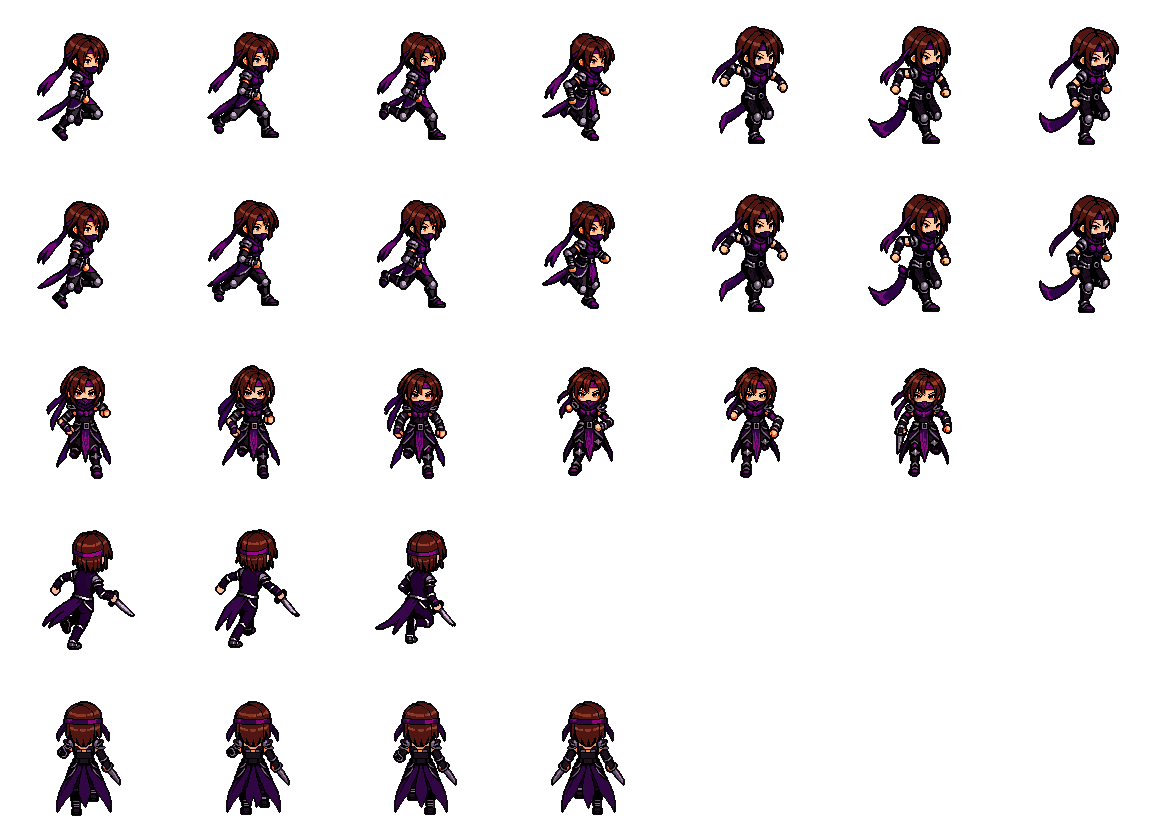
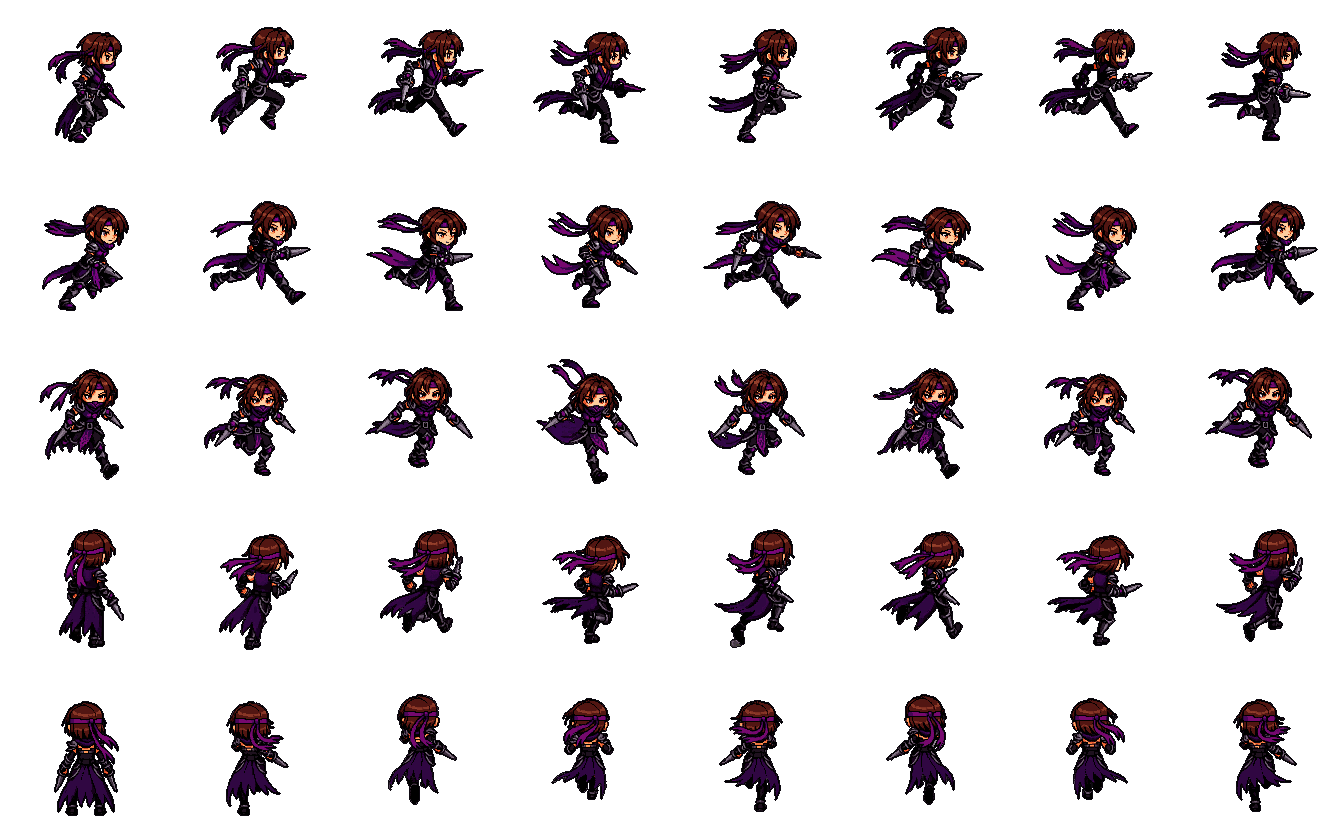
Assassin: new 5-direction run (PixelLab, 5 gen)
Claude-Session: https://claude.ai/code/session_01TXxUxQ6wjWh66ESj3NLopA

diff --git a/action.html b/action.html
@@ -3476,8 +3476,8 @@ function as2Sharp(img, k) { const c0 = img._sh || (img._sh = {}); if (c0[k]) ret
 // run in 5 directions, the twin-katar slash combo and the crit spin in 3 (side, down-diagonal, down); the left-hand directions are
 // mirrored, upward attacks use the side view. Crit (every 4th hit) plays the spin; the E whirl loops it.
 const AS3 = AS2 ? {} : null;
-if (AS3) { fetch('art/action/as3/as3.json?v=3').then(r => r.json()).then(m => { AS3.m = m; }).catch(() => {});
-  for (const k of ['still', 'run', 'attack', 'spin', 'spinfx']) { const im = new Image(); im.src = 'art/action/as3/' + k + '.png?v=3'; AS3[k] = im; } }
+if (AS3) { fetch('art/action/as3/as3.json?v=5').then(r => r.json()).then(m => { AS3.m = m; }).catch(() => {});
+  for (const k of ['still', 'run', 'attack', 'spin', 'spinfx']) { const im = new Image(); im.src = 'art/action/as3/' + k + '.png?v=5'; AS3[k] = im; } }
 const AS3MIR = {west: 'east', 'south-west': 'south-east', 'north-west': 'north-east'};
 function as3Row(name, d) {                       // [row, frames, flip] for a direction name
   const A = AS3.m.anims[name]; let flip = false, k = d;

diff --git a/tools/art/as3_build.py b/tools/art/as3_build.py
@@ -51,7 +51,7 @@ def add(name, key, dirs, pick=None, fx=False, raw=False):
         row = [put(Image.open(f).convert('RGBA') if raw else clean(Image.open(f), fx)) for f in fs]
         area = [int((np.asarray(r)[..., 3] > 0).sum()) for r in row]; med = sorted(area)[len(area) // 2]
         feet = [int((np.asarray(r)[FY - 14:FY + 2, :, 3] > 0).sum()) for r in row]; fm = sorted(feet)[len(feet) // 2]
-        if not raw: row = [r for r, ar, ft in zip(row, area, feet) if ar > med * .55 and ft > fm * .45]   # frames that were mostly effect (the X flash) or lost their legs behind a swoosh are dropped
+        if not raw and name != 'run': row = [r for r, ar, ft in zip(row, area, feet) if ar > med * .55 and ft > fm * .45]   # frames that were mostly effect (the X flash) or lost their legs behind a swoosh are dropped
         meta['anims'][name][d] = {'r': len(imgs), 'n': len(row)}; imgs.append(row)
     n = max(len(r) for r in imgs); out = Image.new('RGBA', (C * n, C * len(imgs)))
     for j, r in enumerate(imgs):
@@ -62,9 +62,10 @@ st = Image.new('RGBA', (C * 8, C)); DIRS = ['east', 'south-east', 'south', 'sout
 for i, d in enumerate(DIRS): st.alpha_composite(put(clean(Image.open(S + 'rotations/%s.png' % d), False)), (i * C, 0))
 st.save(O + 'still.png')
 # run: east has grey 'robot' arms -> the south-east run stands in for the side; north / north-east: the matching half only
-add('run', 'running', {'east': ('south-east', None), 'south-east': None, 'south': None, 'north-east': [0, 1, 2, 3], 'north': [4, 5, 6, 7]})
+# run: the PixMiniMax run (2026-11-12 "เจนท่าวิ่งเลย", 5 gen); frame 0 is the stance, 1-8 loop; the template run (grey arms) is no longer used
+R8 = list(range(1, 9)); add('run', 'agile', {'east': R8, 'south-east': R8, 'south': R8, 'north-east': R8, 'north': R8}, fx=True)
 SL = [0, 2, 3, 4, 5, 6, 7, 8, 9, 10, 11, 12, 15, 16]            # 13-14 = the X flash
-add('attack', 'a_fast', {'east': SL, 'south-east': SL, 'south': SL}, fx=True)
+add('attack', 'a_fast_twin', {'east': SL, 'south-east': SL, 'south': SL}, fx=True)
 SP = [0, 3, 4, 5, 6, 7, 8, 9, 13, 15, 16]                        # one turn, then the landing
 add('spin', 'a_critical', {'east': SP, 'south-east': SP, 'south': SP}, fx=True)
 # owner 2026-11-12 "วงไว้ทำตอนสกิล ... ทำไมจะลบเอฟเฟกต์": the spin WITH PixMiniMax's own glowing rings, untouched, for the E whirl skill

diff --git a/docs/action-game.md b/docs/action-game.md
@@ -69,6 +69,7 @@ Balance after: 1.25 of 40 (first trial key, 2026-11-08, all attacks done). The o
 | 2026-11-12 | Assassin v2 as a PixelLab character, class-1 way (owner "โอเค ตามทางเดิม"): `create_character` v3, reference = `v2/r2_ref128.png` (the redraw's front, 128x128, feet 124), no imported views | character 11dc25a4-c605-4443-8de0-32d4a7f108ef | 2 | 8 views in `v2/char_rot/` + `_preview.png` (downloaded through `/mcp/characters/<id>/download`, the backblaze links are blocked here): consistent face and outfit, katars in both hands, side and back views clean. Moves next via `animate_character` |
 | 2026-11-12 | Assassin character moves (owner "เจน", budget ~20-30): run = `animate_character` template running-8-frames, directions east / south-east / south / north-east / north (group 7161d913…); attack: the stab combo (group 07bd380c…) was cancelled while processing (owner "ไม่เอาแทง ท่าตีเอาแบบแอส RO"), then a slashing combo with an X (group e47d20a7…, also cancelled: owner "ไม่เอากากบาท"), now right sweep + left sweep only, pixminimax 16 f, east / south-east / south, group 28ece7d6… (north-east / north later) | see `v2/job_char_run.txt`, `job_char_attack.txt` | run 10 + attack 3 | done, downloaded to `v2/char_dl/` (previews `v2/as_running.png`, `as_slashing.png`, `as_spinning.png`): the template run is poor (grey 'robot' arms on east, the two batches of north / north-east do not match, katars vanish); the slash combo moves well but PixMiniMax drew big blue / purple swooshes and an X flash at the end; |
 | 2026-11-12 | Assassin crit move (owner "ท่าคริให้หมุนตัวฟัน คล้ายๆ นักธนูหมุนตัวยิง"): pixminimax 16 f, one full spin with both katars slashing round her, east / south-east / south | group 3175eec9… (`v2/job_char_crit.txt`) | 3 | done: a good full spin, but with orange / pink / white swoosh rings and dust drawn in |
+| 2026-11-12 | Assassin run redo (owner "เจนท่าวิ่งเลย"; the template run had grey arms): `animate_character` pixminimax 8 f, east / south-east / south / north-east / north | group 06f91ba2… (`v2/job_char_run2.txt`, preview `v2/as_run2.png`) | 5 | good in every direction, her colours kept; frame 0 = stance, 1-8 loop; small dust puffs at the feet cleaned (owner "เราทำเองสวยกว่า": our own effects instead of PixelLab's) → `as3` run row |
 
 ### Second PixelLab account (owner's other key, from 2026-11-08)
 The app kept the old key until restarted, so jobs go through `tools/pl_rpc.py` (HTTP JSON-RPC with the key from the
